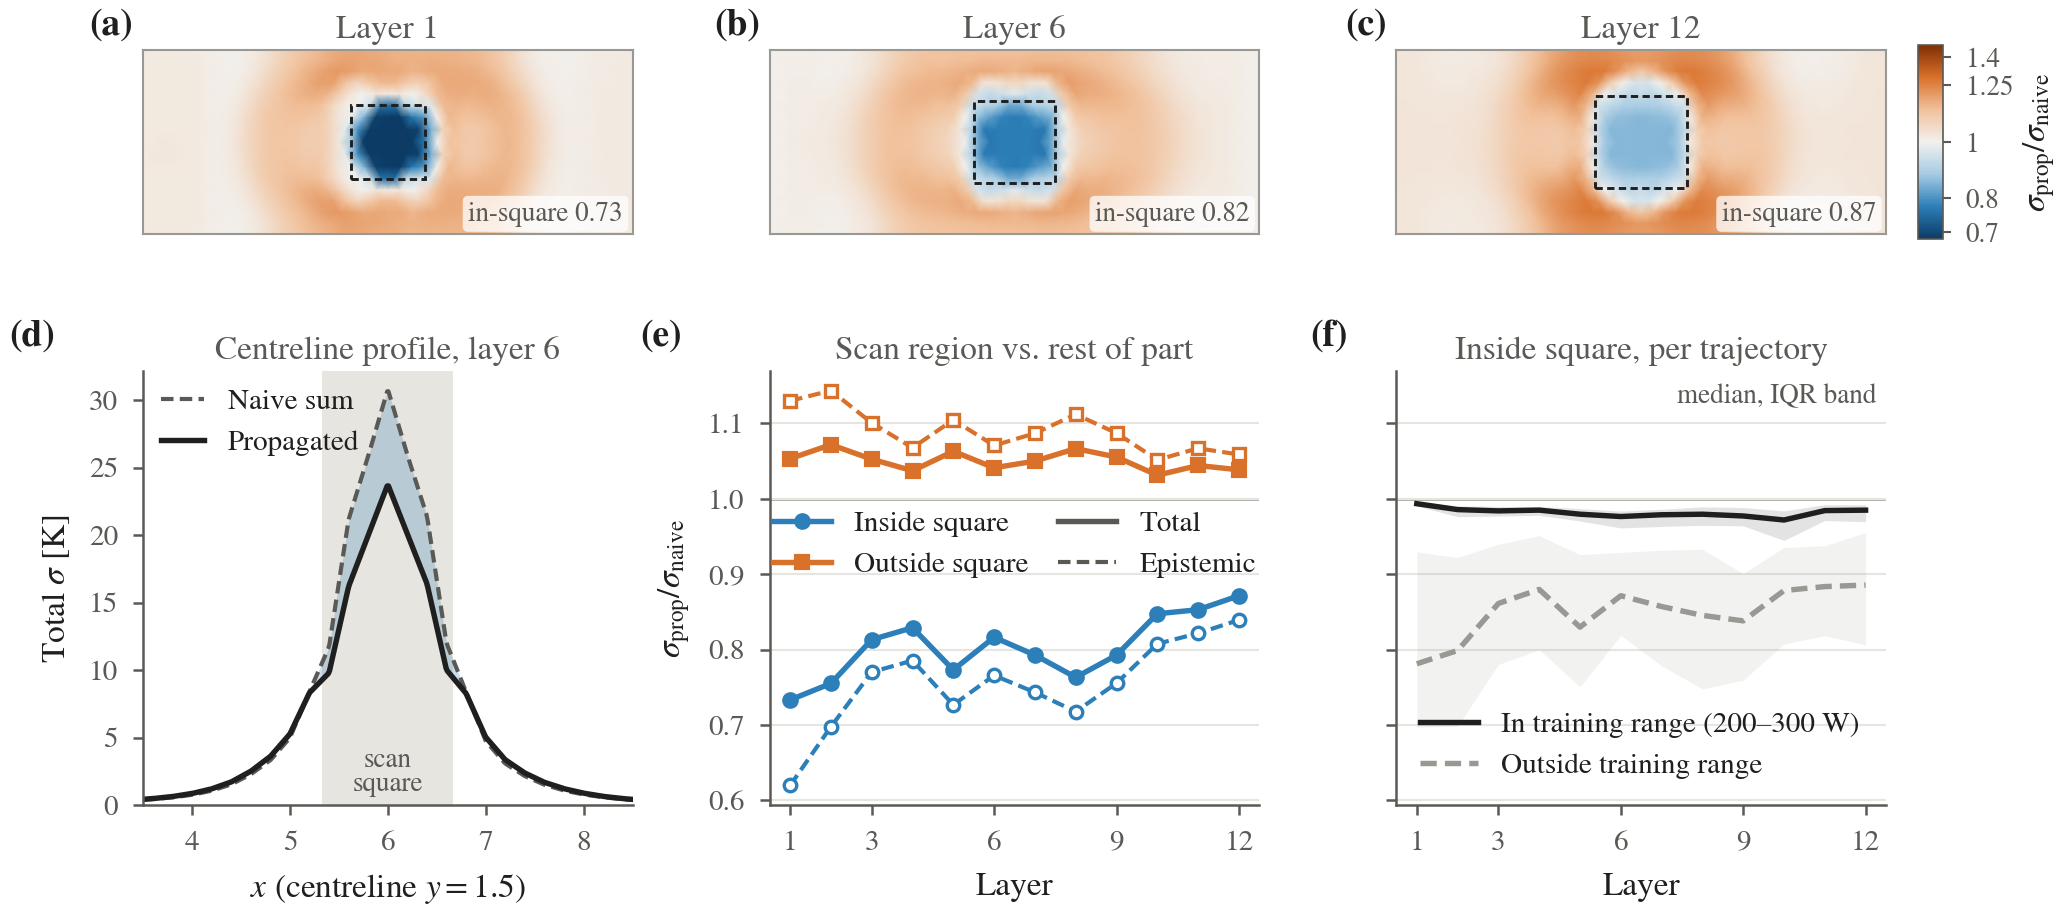
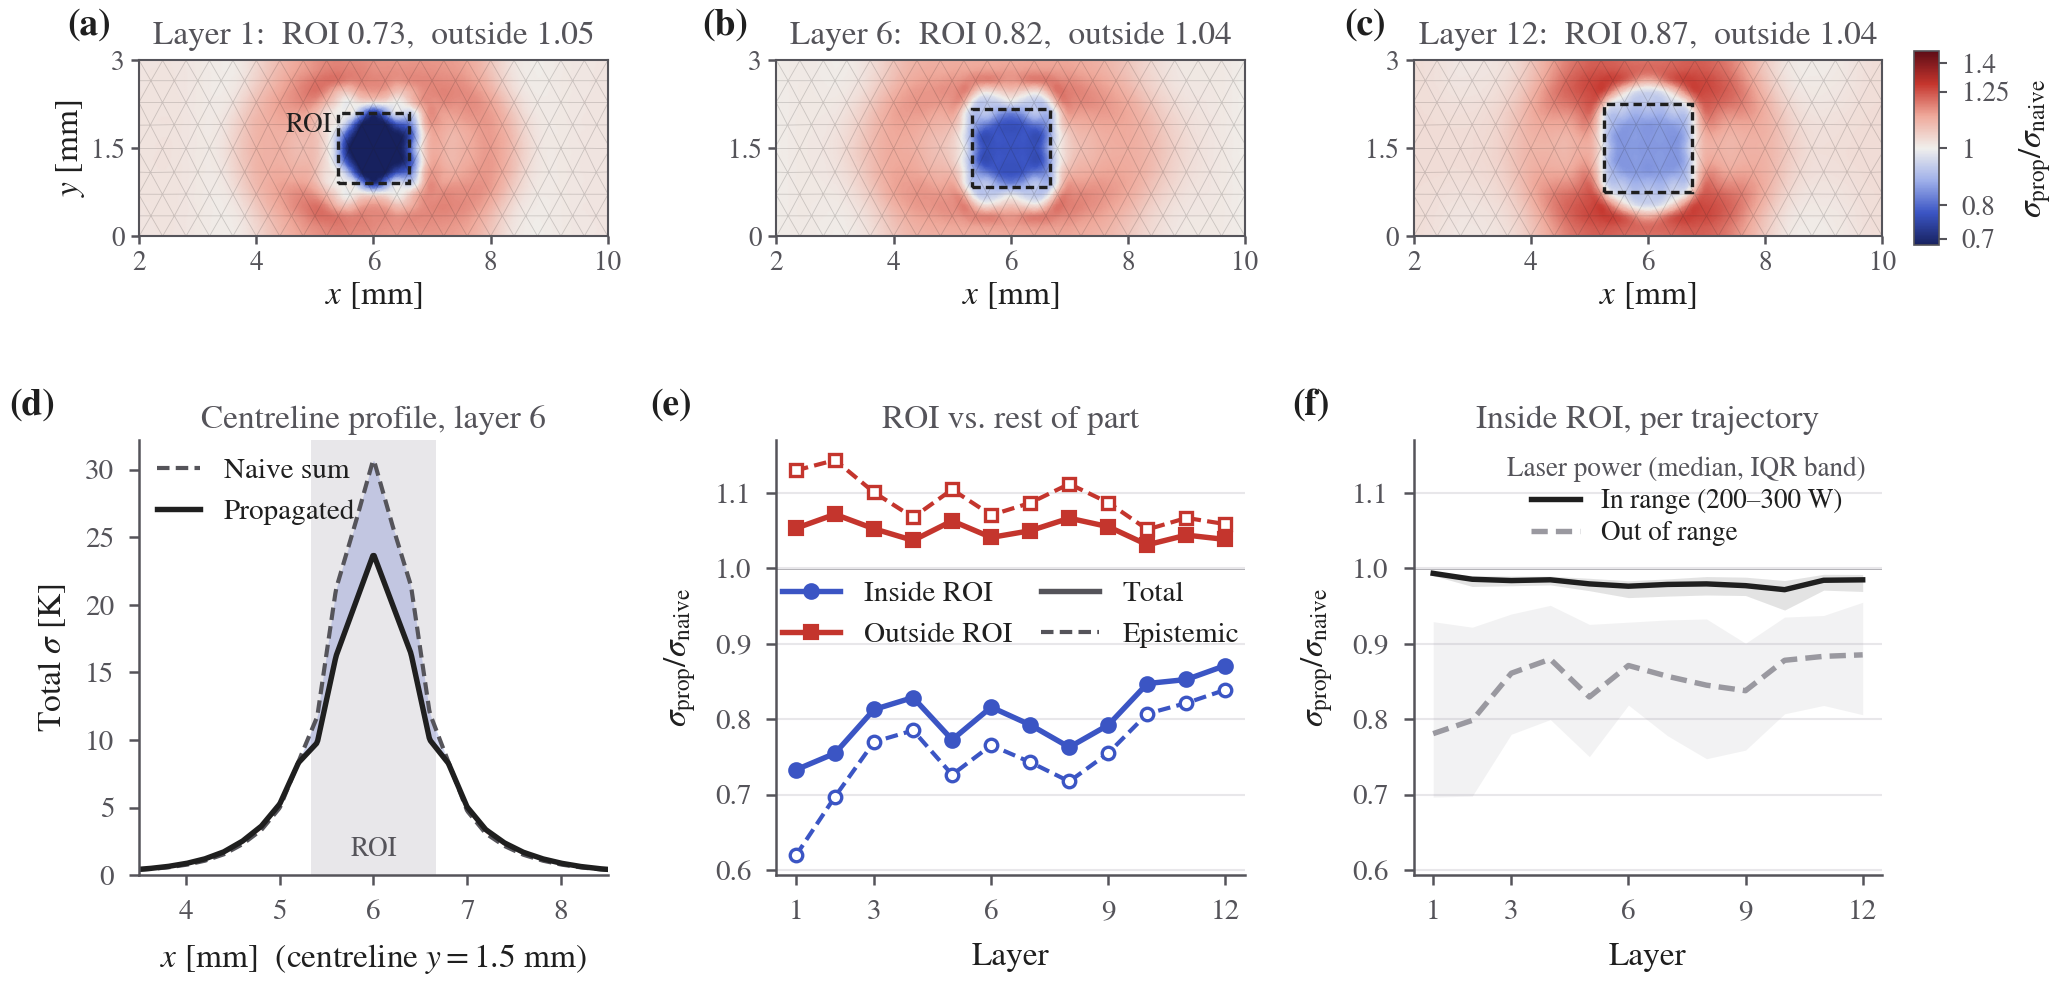
Update: new improved figures on Jacobian

diff --git a/surrogate_model_v3/paper_figure_propagation.py b/surrogate_model_v3/paper_figure_propagation.py
@@ -7,13 +7,13 @@ diagonal (rank=0) surrogate's combined two-stage uncertainty. Reads the
 
 Layout (double-column width, 2 rows x 3 panels):
   (a)-(c) σ_prop/σ_naive maps of the combined total σ (test-set mean) at three
-          representative layers, zoomed on the scan region at true aspect,
-          one shared diverging colourbar (log-symmetric around 1).
+          representative layers, zoomed on the laser ROI (scan square) at true
+          aspect, one shared diverging colourbar (log-symmetric around 1).
   (d)     centreline profile (y = domain centre) of naive vs. propagated total
-          σ [K] at the middle layer, scan-square extent shaded.
-  (e)     per-layer ratio inside vs. outside the scan square (total solid,
+          σ [K] at the middle layer, ROI extent shaded.
+  (e)     per-layer ratio inside vs. outside the ROI (total solid,
           epistemic dashed).
-  (f)     per-trajectory in-square total ratio, median + IQR band, laser power
+  (f)     per-trajectory in-ROI total ratio, median + IQR band, laser power
           inside vs. outside the training range (if the npz has an id_range).
 
 Usage
@@ -41,17 +41,17 @@ sys.path.insert(0, os.path.dirname(os.path.dirname(os.path.abspath(__file__))))
 from surrogate_model_v3.plot_propagation_maps import load_mesh, roi_masks, scan_squares
 
 # -----------------------------------------------------------------------------
-# Theme: cool teal-blue (damped) <-> burnt orange (amplified), warm-gray neutral.
-# Line colours reuse the two poles so "inside = damped = cool" reads the same
-# in the maps and in the curves.
+# Theme: cool indigo (damped) <-> crimson (amplified), light warm-gray neutral at
+# ratio 1. Line colours reuse the two poles so "inside ROI = damped = cool" reads
+# the same in the maps and in the curves.
 # -----------------------------------------------------------------------------
-COOL, COOL_DARK = "#2c7fb8", "#0c3c66"
-WARM, WARM_DARK = "#d9712b", "#7f2f05"
-NEUTRAL = "#f2f1ee"
-INK, INK_2, INK_3 = "#1f1f1f", "#5a5955", "#9a9893"
-GRID = "#e7e5e0"
+COOL, COOL_DARK = "#3b55c4", "#17215e"
+WARM, WARM_DARK = "#c4352d", "#5e0c16"
+NEUTRAL = "#f0efec"
+INK, INK_2, INK_3 = "#1f1f1f", "#55545a", "#9a99a0"
+GRID = "#e8e7ea"
 DIVERGING = LinearSegmentedColormap.from_list(
-    "paper_div", [COOL_DARK, COOL, "#a6cbe3", NEUTRAL, "#f1c19b", WARM, WARM_DARK])
+    "paper_div", [COOL_DARK, COOL, "#9fb0ea", NEUTRAL, "#efa99b", WARM, WARM_DARK])
 
 PAPER_RC = {
     "font.family": "serif",
@@ -101,41 +101,54 @@ def main() -> None:
     id_range = tuple(z["id_range"]) if "id_range" in z.files else None
     T = per_traj_lp.shape[0]
 
-    shade, _edges, nodes = load_mesh(a.mesh_path)
+    shade, edges, nodes = load_mesh(a.mesh_path)
     squares = scan_squares(nodes, T)
     roi = roi_masks(nodes, squares)
     ratio = np.sqrt(mv["prop_total"] / np.maximum(mv["naive_total"], 1e-30))
     lr = np.log2(np.clip(ratio, 1e-6, None))
     lim = max(np.percentile(np.abs(lr[[L - 1 for L in a.layers]]), 99.5), np.log2(1.05))
     norm = Normalize(-lim, lim)
+    refiner = mtri.UniformTriRefiner(shade)
 
     # ---------------- layout -------------------------------------------------
     W = 7.0
     y0, y1 = nodes[1].min(), nodes[1].max()
     map_w = (W - 0.75) / 3
     map_h = map_w * (y1 - y0) / (a.x_window[1] - a.x_window[0])
-    fig = plt.figure(figsize=(W, map_h + 2.2))
-    gs = fig.add_gridspec(2, 3, height_ratios=[map_h, 1.75], hspace=0.42, wspace=0.28,
+    fig = plt.figure(figsize=(W, map_h + 2.45))
+    gs = fig.add_gridspec(2, 3, height_ratios=[map_h, 1.75], hspace=0.62, wspace=0.36,
                           left=0.07, right=0.90, top=0.95, bottom=0.10)
 
     # ---------------- (a)-(c) ratio maps -----------------------------------
     for j, L in enumerate(a.layers):
         ax = fig.add_subplot(gs[0, j])
-        tpc = ax.tripcolor(shade, lr[L - 1], cmap=DIVERGING, norm=norm, shading="gouraud", rasterized=True)
+        # smooth display: cubic interpolation on a 3x-refined mesh (display only)
+        tri_f, z_f = refiner.refine_field(lr[L - 1], subdiv=3,
+                                          triinterpolator=mtri.CubicTriInterpolator(shade, lr[L - 1], kind="min_E"))
+        z_f = np.clip(z_f, -lim, lim)
+        tpc = ax.tripcolor(tri_f, z_f, cmap=DIVERGING, norm=norm, shading="gouraud", rasterized=True)
         cx, cy, hs = squares[L - 1]
         ax.add_patch(Rectangle((cx - hs, cy - hs), 2 * hs, 2 * hs, fill=False, edgecolor=INK,
-                               linewidth=0.7, linestyle=(0, (2.5, 1.5))))
+                               linewidth=0.8, linestyle=(0, (2.5, 1.5))))
+        if j == 0:
+            ax.text(cx - hs - 0.1, cy + hs, "ROI", ha="right", va="top", fontsize=6.5, color=INK)
+        # finite-element mesh (corner triangles of the quadratic elements), faint
+        ax.triplot(edges, color=INK, linewidth=0.2, alpha=0.18)
         ax.set_xlim(*a.x_window); ax.set_ylim(y0, y1)
         ax.set_aspect("equal")
-        ax.set_xticks([]); ax.set_yticks([])
+        ax.set_xticks(np.arange(np.ceil(a.x_window[0]), a.x_window[1] + 1e-9, 2.0))
+        ax.set_yticks([y0, (y0 + y1) / 2, y1])
+        ax.set_yticklabels([f"{v:g}" for v in (y0, (y0 + y1) / 2, y1)])
+        ax.tick_params(labelsize=6.5, length=2, pad=1.5)
+        ax.set_xlabel(r"$x$ [mm]", labelpad=1)
+        if j == 0:
+            ax.set_ylabel(r"$y$ [mm]", labelpad=1)
         for s in ax.spines.values():
-            s.set_visible(True); s.set_color(INK_3); s.set_linewidth(0.5)
-        ax.set_title(f"Layer {L}", pad=3, color=INK_2)
-        _panel_label(ax, "abc"[j])
-        inside = np.sqrt(mv["prop_total"][L - 1][roi[L - 1]].sum() / mv["naive_total"][L - 1][roi[L - 1]].sum())
-        ax.text(0.98, 0.04, f"in-square {inside:.2f}", transform=ax.transAxes, ha="right", va="bottom",
-                fontsize=6.5, color=INK_2,
-                bbox=dict(boxstyle="round,pad=0.2", fc="white", ec="none", alpha=0.75))
+            s.set_visible(True); s.set_color(INK_2); s.set_linewidth(0.5)
+        r_in = _region_ratio(mv, roi, "total", True)[L - 1]
+        r_out = _region_ratio(mv, roi, "total", False)[L - 1]
+        ax.set_title(f"Layer {L}:  ROI {r_in:.2f},  outside {r_out:.2f}", pad=4, color=INK_2)
+        _panel_label(ax, "abc"[j], x=-0.06, y=1.10)
     # shared colourbar, aligned with the map row
     pos = fig.add_subplot(gs[0, 2]).get_position(); fig.axes[-1].remove()
     cax = fig.add_axes([0.915, pos.y0, 0.012, pos.height])
@@ -156,16 +169,16 @@ def main() -> None:
         sig_k = np.sqrt(mv[f"{tag}_total"][t]) * state_std
         curves[tag] = mtri.LinearTriInterpolator(shade, sig_k)(xs, np.full_like(xs, cy))
     ax.axvspan(cx - hs, cx + hs, color=GRID, zorder=0, linewidth=0)
-    ax.text(cx, 0.02, "scan\nsquare", transform=ax.get_xaxis_transform(), ha="center", va="bottom",
-            fontsize=6.5, color=INK_2, linespacing=0.9)
+    ax.text(cx, 0.03, "ROI", transform=ax.get_xaxis_transform(), ha="center", va="bottom",
+            fontsize=6.5, color=INK_2)
     ax.fill_between(xs, curves["prop"], curves["naive"], where=curves["prop"] < curves["naive"],
-                    color=COOL, alpha=0.25, linewidth=0, interpolate=True)
+                    color=COOL, alpha=0.22, linewidth=0, interpolate=True)
     ax.fill_between(xs, curves["prop"], curves["naive"], where=curves["prop"] >= curves["naive"],
-                    color=WARM, alpha=0.25, linewidth=0, interpolate=True)
+                    color=WARM, alpha=0.22, linewidth=0, interpolate=True)
     ax.plot(xs, curves["naive"], color=INK_2, linewidth=1.0, linestyle=(0, (3, 1.5)), label="Naive sum")
     ax.plot(xs, curves["prop"], color=INK, linewidth=1.3, label="Propagated")
     ax.set_xlim(*a.profile_window); ax.set_ylim(bottom=0)
-    ax.set_xlabel(r"$x$ (centreline $y = %.1f$)" % cy)
+    ax.set_xlabel(r"$x$ [mm]  (centreline $y = %.1f$ mm)" % cy)
     ax.set_ylabel(r"Total $\sigma$ [K]")
     ax.set_title(f"Centreline profile, layer {a.profile_layer}", pad=3, color=INK_2)
     ax.legend(loc="upper left", handlelength=1.5, borderaxespad=0.2)
@@ -179,14 +192,14 @@ def main() -> None:
                 linewidth=1.3)
         ax.plot(layers, _region_ratio(mv, roi, "epi", inside), color=col, marker=mk, markersize=3,
                 markerfacecolor="white", markeredgewidth=0.8, linewidth=1.0, linestyle=(0, (3, 1.5)))
-    handles = [Line2D([], [], color=COOL, marker="o", markersize=3, linewidth=1.3, label="Inside square"),
-               Line2D([], [], color=WARM, marker="s", markersize=3, linewidth=1.3, label="Outside square"),
+    handles = [Line2D([], [], color=COOL, marker="o", markersize=3, linewidth=1.3, label="Inside ROI"),
+               Line2D([], [], color=WARM, marker="s", markersize=3, linewidth=1.3, label="Outside ROI"),
                Line2D([], [], color=INK_2, linewidth=1.3, label="Total"),
                Line2D([], [], color=INK_2, linewidth=1.0, linestyle=(0, (3, 1.5)), label="Epistemic")]
     ax.legend(handles=handles, loc="center", ncols=2, handlelength=2.0, columnspacing=1.0,
               bbox_to_anchor=(0.5, 0.60))
     ax.set_xlabel("Layer"); ax.set_ylabel(RATIO)
-    ax.set_title("Scan region vs. rest of part", pad=3, color=INK_2)
+    ax.set_title("ROI vs. rest of part", pad=3, color=INK_2)
     _panel_label(ax, "e", x=-0.18)
     e_ax = ax
 
@@ -194,8 +207,8 @@ def main() -> None:
     ax = fig.add_subplot(gs[1, 2], sharey=e_ax)
     if id_range is not None:
         id_mask = (per_traj_lp >= id_range[0]) & (per_traj_lp <= id_range[1])
-        groups = [(f"In training range ({id_range[0]:.0f}–{id_range[1]:.0f} W)", id_mask, INK, "-"),
-                  ("Outside training range", ~id_mask, INK_3, (0, (3, 1.5)))]
+        groups = [(f"In range ({id_range[0]:.0f}–{id_range[1]:.0f} W)", id_mask, INK, "-"),
+                  ("Out of range", ~id_mask, INK_3, (0, (3, 1.5)))]
     else:
         groups = [("All test trajectories", np.ones_like(per_traj_lp, dtype=bool), INK, "-")]
     for lab, mask, col, ls in groups:
@@ -203,13 +216,13 @@ def main() -> None:
                        for t in range(T)]) for p in (25, 50, 75)]
         ax.fill_between(layers, q[0], q[2], color=col, alpha=0.12, linewidth=0)
         ax.plot(layers, q[1], color=col, linestyle=ls, linewidth=1.3, label=lab)
-    ax.set_xlabel("Layer")
-    ax.tick_params(labelleft=False)
-    ax.legend(loc="lower right", handlelength=2.0)
-    ax.set_title("Inside square, per trajectory", pad=3, color=INK_2)
-    ax.text(0.98, 0.97, "median, IQR band", transform=ax.transAxes, ha="right", va="top",
-            fontsize=6.5, color=INK_2)
-    _panel_label(ax, "f", x=-0.10)
+    ax.set_xlabel("Layer"); ax.set_ylabel(RATIO)
+    ax.tick_params(labelleft=True)
+    leg = ax.legend(loc="upper right", ncols=1, handlelength=1.8, fontsize=6.5, labelspacing=0.25,
+                    title="Laser power (median, IQR band)", title_fontsize=6.5, borderaxespad=0.2)
+    leg.get_title().set_color(INK_2)
+    ax.set_title("Inside ROI, per trajectory", pad=3, color=INK_2)
+    _panel_label(ax, "f", x=-0.18)
 
     for ax in (e_ax, ax):
         ax.axhline(1.0, color=INK_3, linewidth=0.6, zorder=0)
